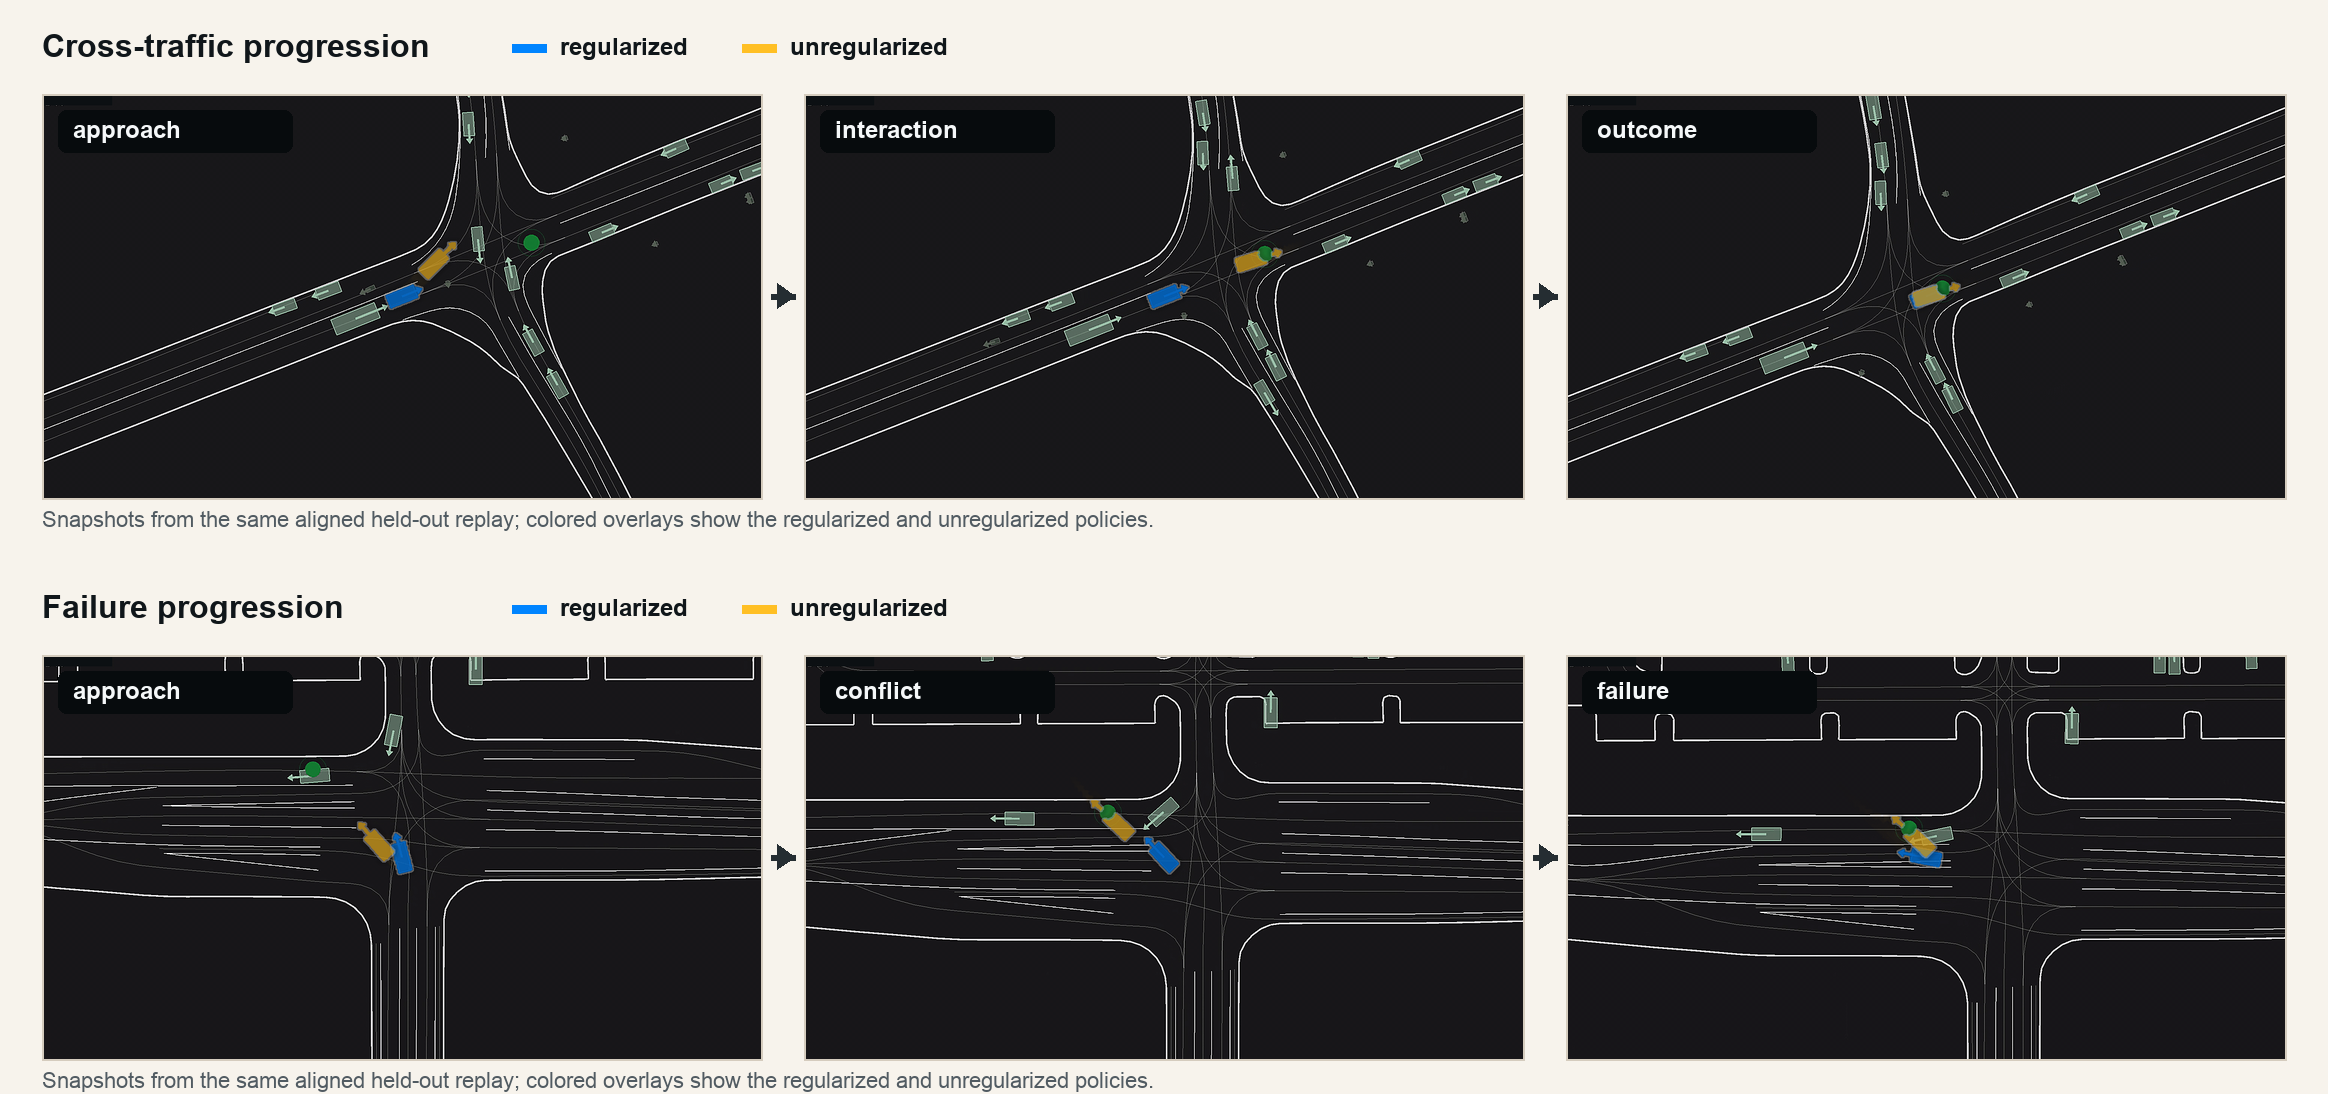
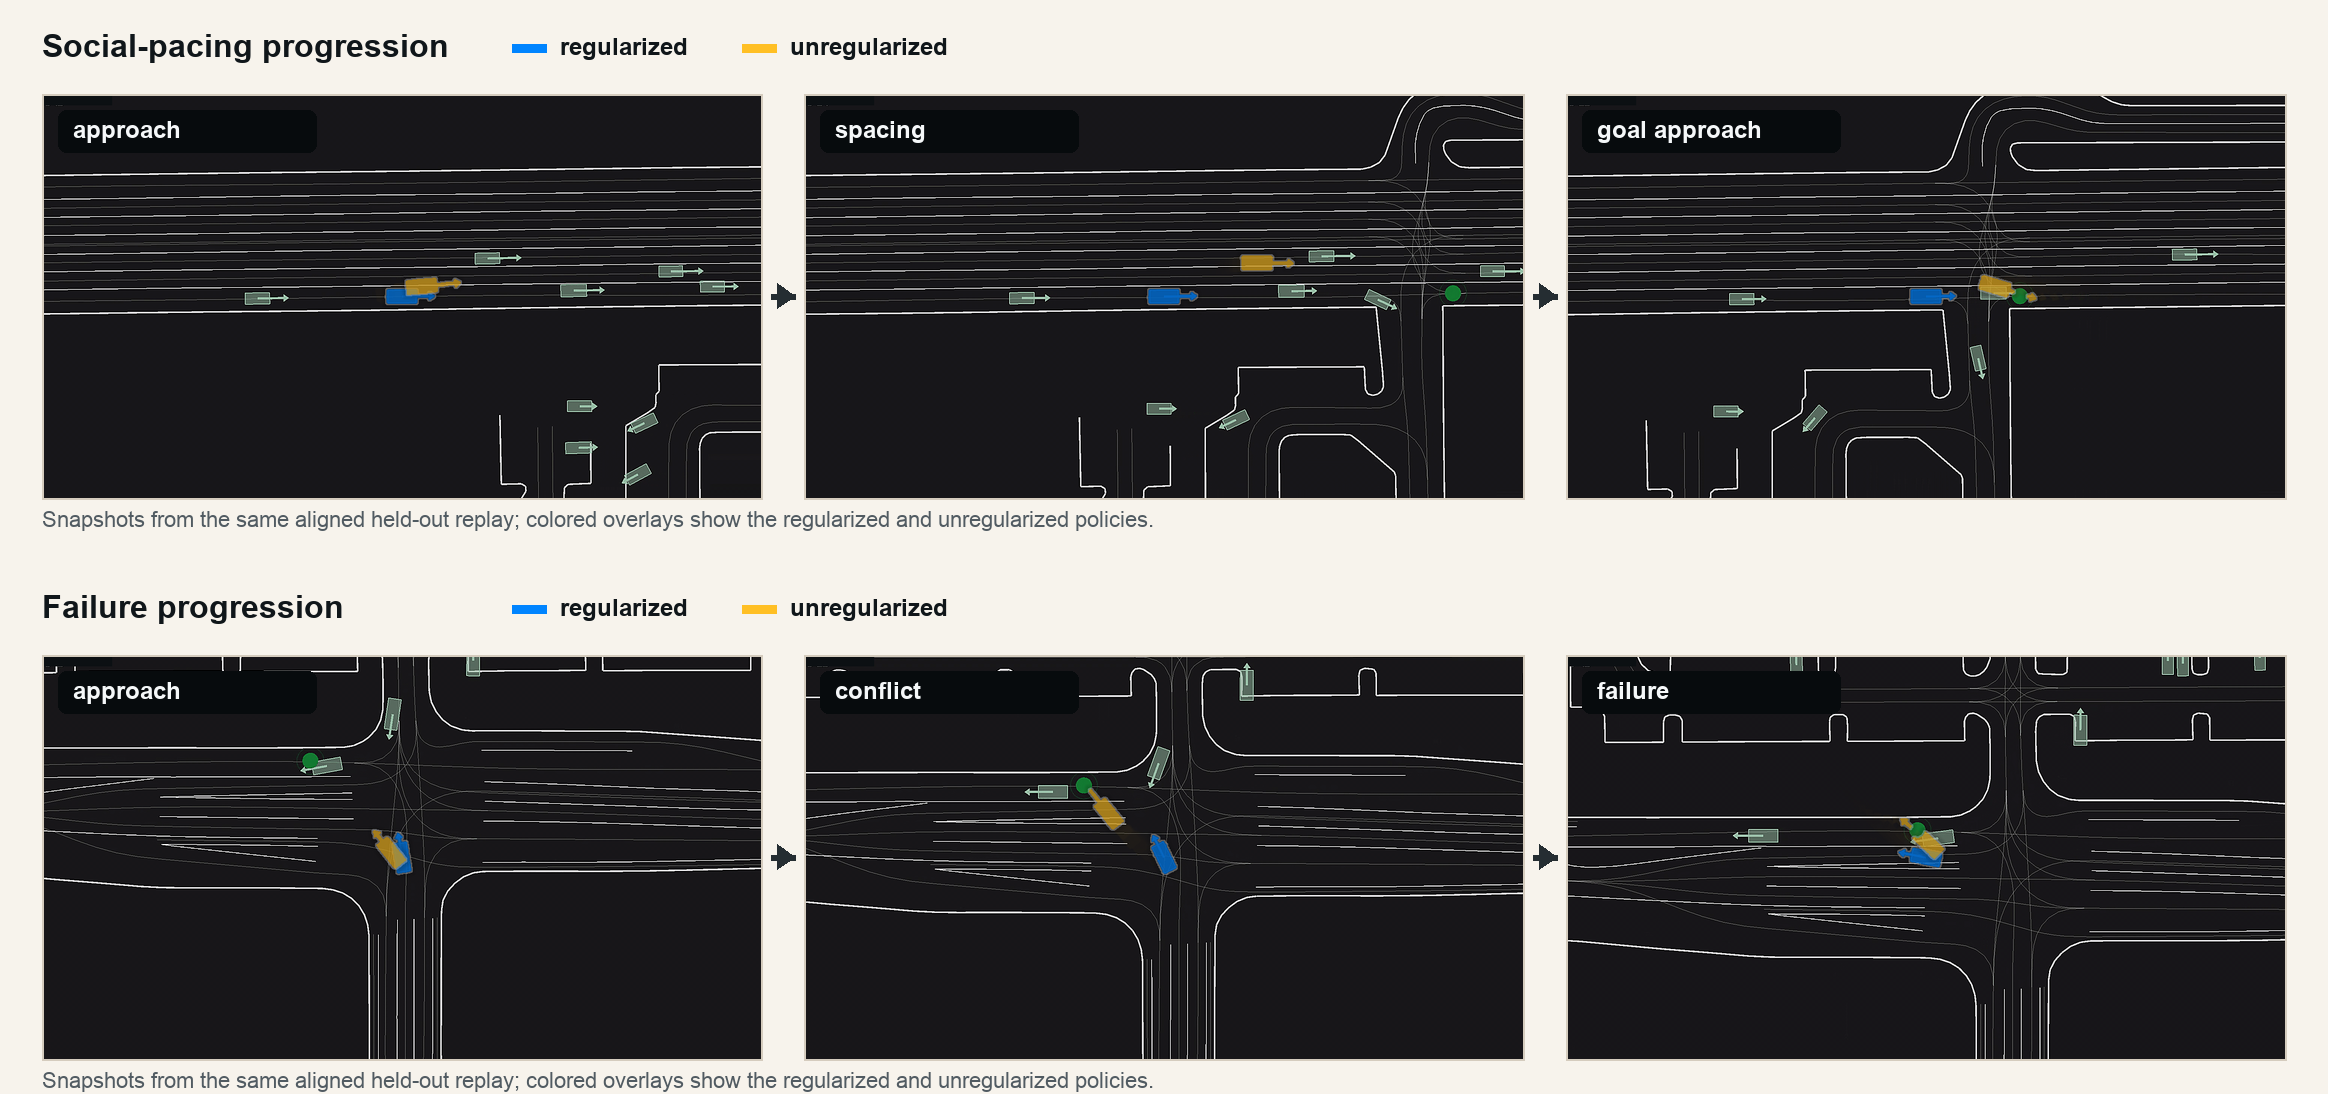
Refine paper rollout figures

diff --git a/index.html b/index.html
@@ -99,19 +99,6 @@
               minimal reward: +1 when the goal indicator I[goal] is true, and
               -1 for off-road or collision events.
             </p>
-            <div class="media-actions">
-              <button
-                class="rollout-toggle"
-                type="button"
-                aria-expanded="false"
-                aria-controls="rollout-comparisons"
-                data-collapse-toggle
-                data-expanded-label="Hide paired GIF comparisons"
-                data-collapsed-label="View paired GIF comparisons"
-              >
-                <span data-collapse-label>View paired GIF comparisons</span>
-              </button>
-            </div>
           </div>
         </div>
 
@@ -214,6 +201,20 @@
               <figcaption>Patient interaction around nearby vehicles.</figcaption>
             </figure>
           </div>
+        </div>
+
+        <div class="media-actions">
+          <button
+            class="rollout-toggle"
+            type="button"
+            aria-expanded="false"
+            aria-controls="rollout-comparisons"
+            data-collapse-toggle
+            data-expanded-label="Hide paired GIF comparisons"
+            data-collapsed-label="View paired GIF comparisons"
+          >
+            <span data-collapse-label>View paired GIF comparisons</span>
+          </button>
         </div>
 
         <div class="comparison-grid" id="rollout-comparisons" hidden>

diff --git a/styles.css b/styles.css
@@ -528,7 +528,7 @@ button {
 .media-actions {
   display: flex;
   justify-content: flex-start;
-  margin-top: 14px;
+  margin: 0 0 26px;
 }
 
 .media-explainer {
@@ -541,7 +541,7 @@ button {
 .overlay-rollout-showcase {
   display: grid;
   gap: 18px;
-  margin-bottom: 24px;
+  margin-bottom: 12px;
 }
 
 .overlay-feature,